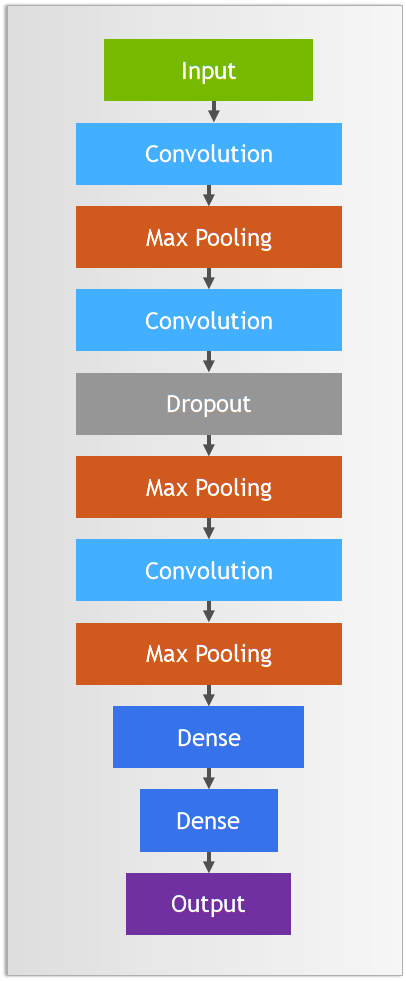
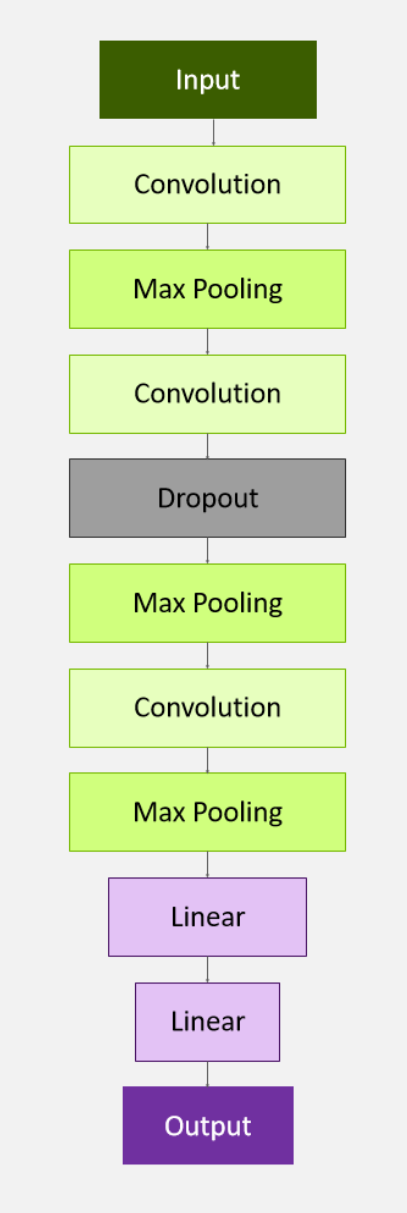
update data link for each lab

diff --git a/courses/fdl/tutorials/data/doggy_door_images/README.md b/courses/fdl/tutorials/data/doggy_door_images/README.md
@@ -1,0 +1,9 @@
+# Doggy Door Sample Data
+
+These images were acquired with these sources.
+
+| File Name     | Author | License | URL | Notes
+| :---          | :---           | :--- | :--- | :--- |
+| happy_dog.jpg | Plank          | CC BY 3.0    | https://en.wikipedia.org/wiki/Jack_Russell_Terrier#/media/File:Jack_Russell_Terrier_1.jpg ||
+| brown_bear.jpg| Danielle Detering | CC BY 4.0 | https://www.kaggle.com/datasets/danielledetering/penny-the-corgi | Taken at the Oakland Zoo
+| sleepy_cat.jpg| TBD | TBD | TBD | TBD
